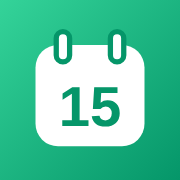
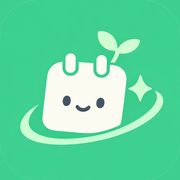
アプリ名を「AIスケジュールアシスタント」に、ホーム画面のアイコンを新しいデザインに
- いただいたアイコン画像から apple-touch-icon / icon-192 / icon-512（角を緑で埋めた正方形。
  角丸は iOS・Android が付ける）と、角を透明にした favicon・アプリ内ロゴを作成
- タイトル・ホーム画面の名前（apple-mobile-web-app-title / manifest）・マイページの表記を変更
- 古い icon.svg を削除

Claude-Session: https://claude.ai/code/session_01VEXizMJrbhSzMQoGYmTVwT

diff --git a/components/icons.tsx b/components/icons.tsx
@@ -1,4 +1,5 @@
 // 線のアイコン集（外部ライブラリを使わずインライン SVG で持つ）
+import Image from "next/image";
 import type { SVGProps } from "react";
 
 type IconProps = SVGProps<SVGSVGElement>;
@@ -246,23 +247,7 @@ export function Mascot({ className }: { className?: string }) {
   );
 }
 
-/** アプリのロゴ（カレンダー型に「15」） */
+/** アプリのロゴ（アプリアイコンと同じ画像。角は透明） */
 export function AppLogo({ className }: { className?: string }) {
-  return (
-    <svg viewBox="0 0 48 48" className={className} aria-hidden="true">
-      <defs>
-        <linearGradient id="ai15-logo" x1="0" y1="0" x2="1" y2="1">
-          <stop offset="0" stopColor="#34d399" />
-          <stop offset="1" stopColor="#059669" />
-        </linearGradient>
-      </defs>
-      <rect width="48" height="48" rx="12" fill="url(#ai15-logo)" />
-      <rect x="9.5" y="12" width="29" height="27" rx="6" fill="#fff" />
-      <rect x="15" y="8.5" width="3.6" height="8" rx="1.8" fill="#fff" stroke="#059669" strokeWidth="1.4" />
-      <rect x="29.4" y="8.5" width="3.6" height="8" rx="1.8" fill="#fff" stroke="#059669" strokeWidth="1.4" />
-      <text x="24" y="33.5" textAnchor="middle" fontFamily="Arial, Helvetica, sans-serif" fontWeight="700" fontSize="15" fill="#059669">
-        15
-      </text>
-    </svg>
-  );
+  return <Image src="/logo.png" alt="" width={180} height={180} className={className} />;
 }

diff --git a/app/layout.tsx b/app/layout.tsx
@@ -2,11 +2,11 @@ import type { Metadata, Viewport } from "next";
 import "./globals.css";
 
 export const metadata: Metadata = {
-  title: "15分スケジューラー",
+  title: "AIスケジュールアシスタント",
   description: "15分単位のタイムラインと、予定を組んでくれるAI秘書",
   manifest: "/manifest.webmanifest",
-  icons: { icon: "/icon.svg", apple: "/apple-touch-icon.png" },
-  appleWebApp: { capable: true, title: "15分", statusBarStyle: "default" },
+  icons: { icon: [{ url: "/favicon-32.png", sizes: "32x32" }, { url: "/icon-192.png", sizes: "192x192" }], apple: "/apple-touch-icon.png" },
+  appleWebApp: { capable: true, title: "AIスケジュールアシスタント", statusBarStyle: "default" },
 };
 
 export const viewport: Viewport = {

diff --git a/lib/calendar/google.ts b/lib/calendar/google.ts
@@ -138,7 +138,7 @@ export class GoogleCalendar implements CalendarBackend {
       this.api.calendars.insert({
         requestBody: {
           summary: AI_CALENDAR_NAME,
-          description: "15-Min AI Scheduler が作成した予定です。このカレンダーの予定は AI が変更することがあります。",
+          description: "AIスケジュールアシスタント が作成した予定です。このカレンダーの予定は AI が変更することがあります。",
           timeZone: this.timeZone,
         },
       }),

diff --git a/components/SettingsView.tsx b/components/SettingsView.tsx
@@ -46,7 +46,7 @@ export default function SettingsView(props: { tz: string; email?: string; demo?:
 
         <div className="flex items-center justify-center gap-2 pt-2 text-xs text-muted">
           <AppLogo className="size-5 rounded-md" />
-          15-Min AI Scheduler
+          AIスケジュールアシスタント
         </div>
       </div>
     </div>

diff --git a/README.md b/README.md
@@ -1,4 +1,6 @@
-# 15-Min AI Scheduler
+# AIスケジュールアシスタント
+
+（開発名：15-Min AI Scheduler）
 
 開いた瞬間に**今日の15分グリッドのタイムライン**が見えて、下のチャット欄で AI 秘書に予定を頼めるアプリ（PWA）。
 「14時から要件定義1時間、そのあと問い合わせ返信15分」と送ると、AI が Google カレンダーの空き時間に15分単位で組み込みます。
